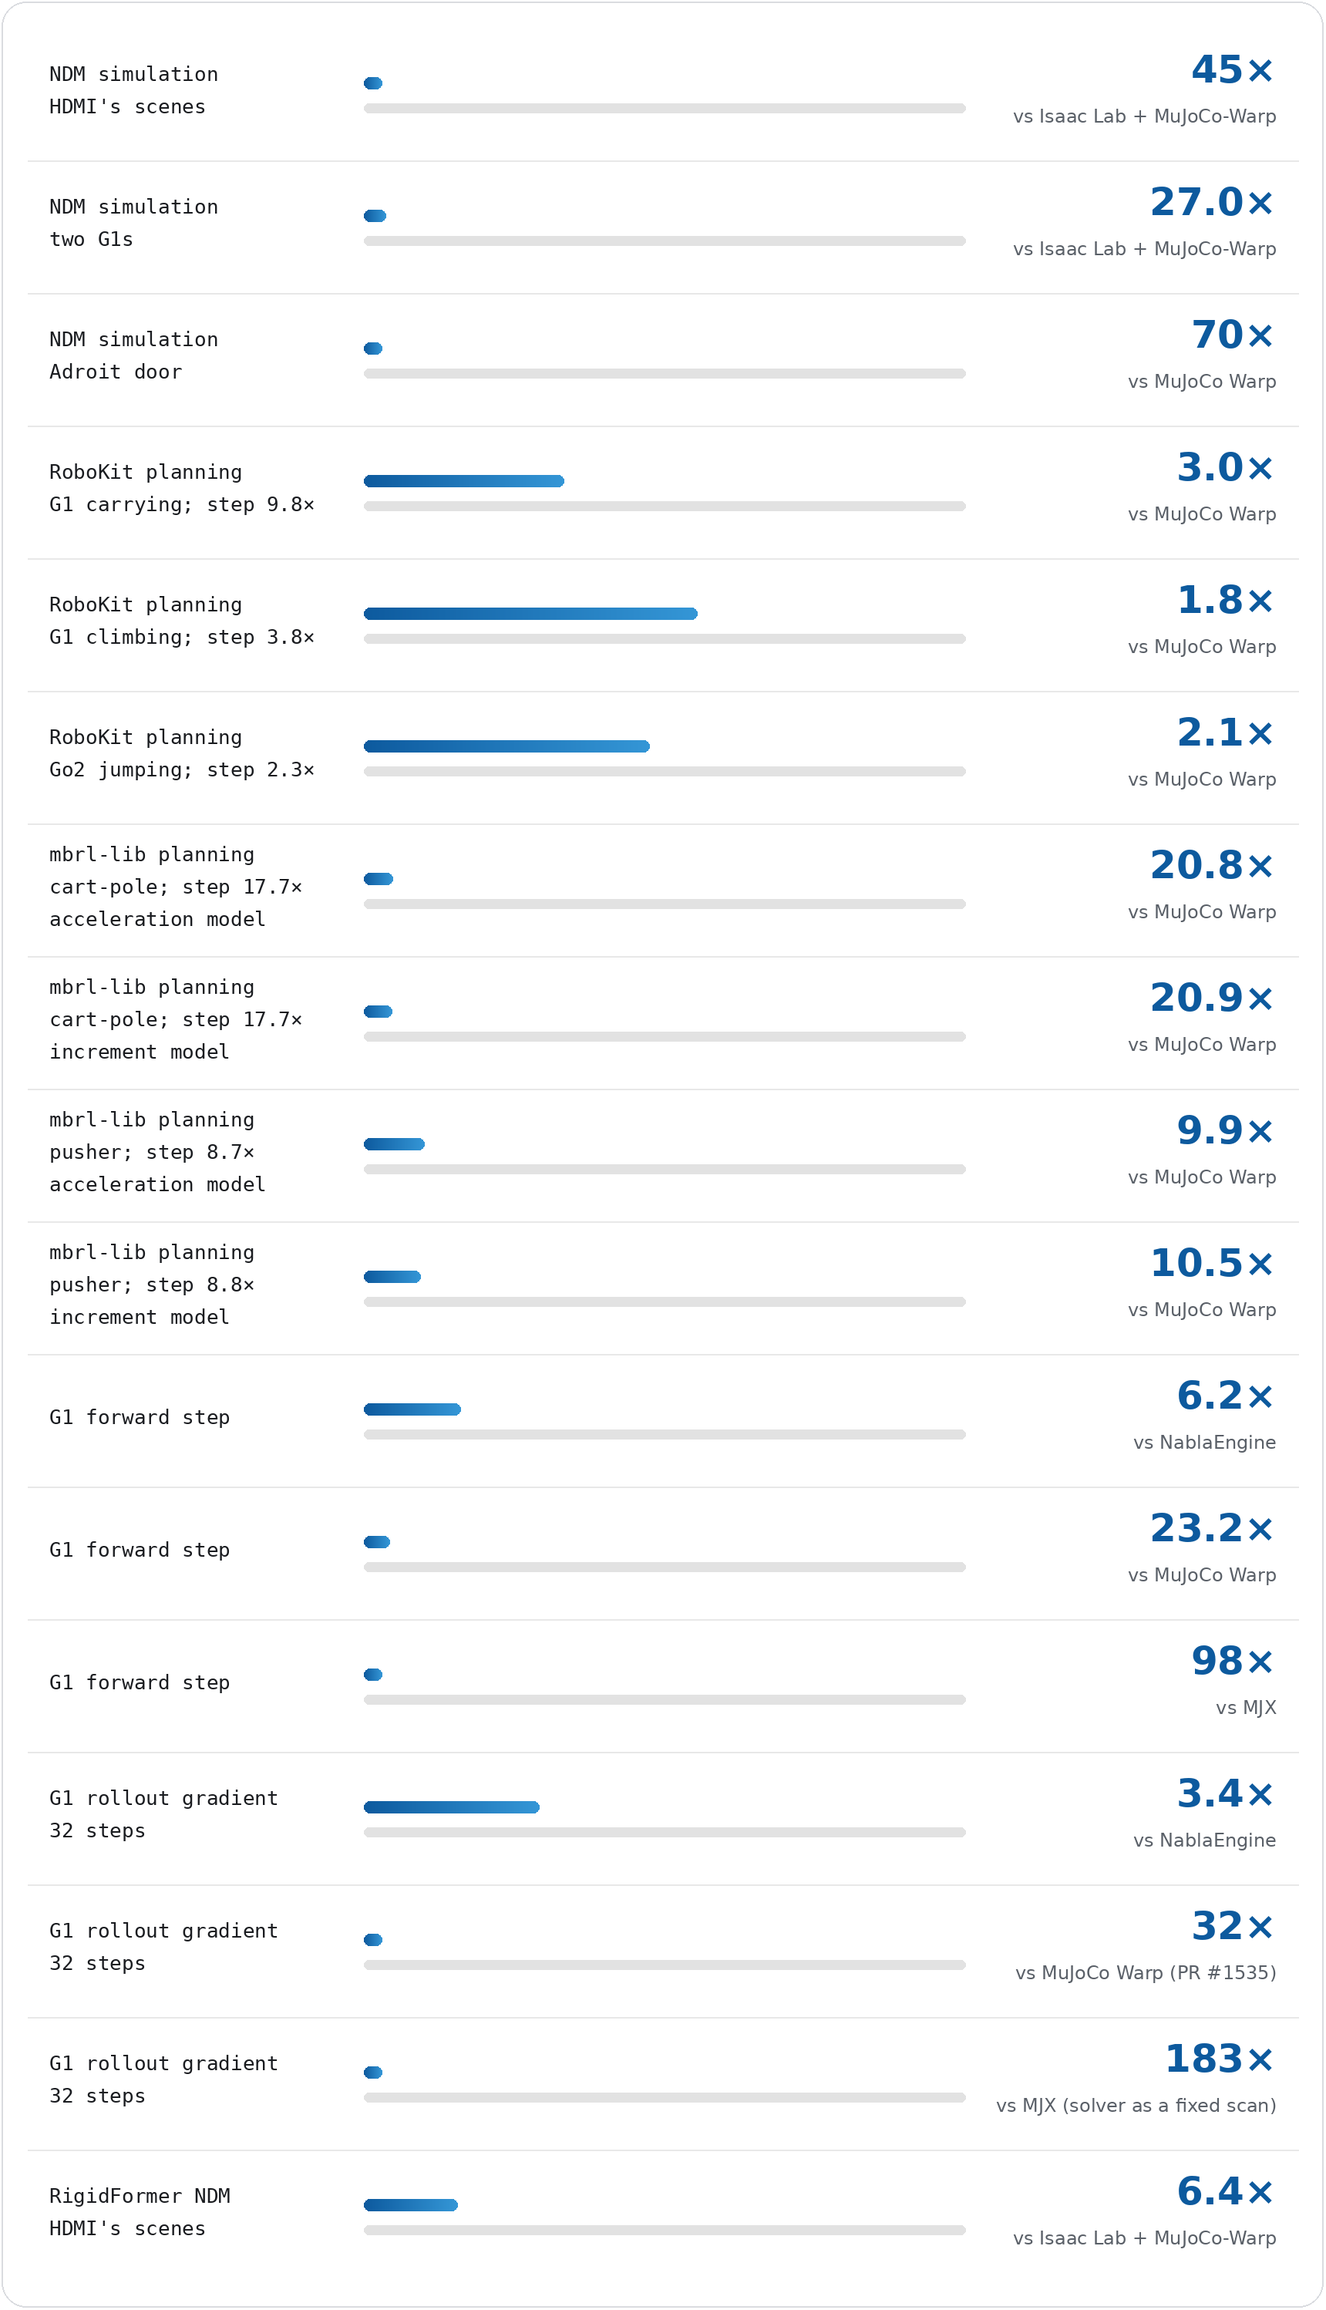
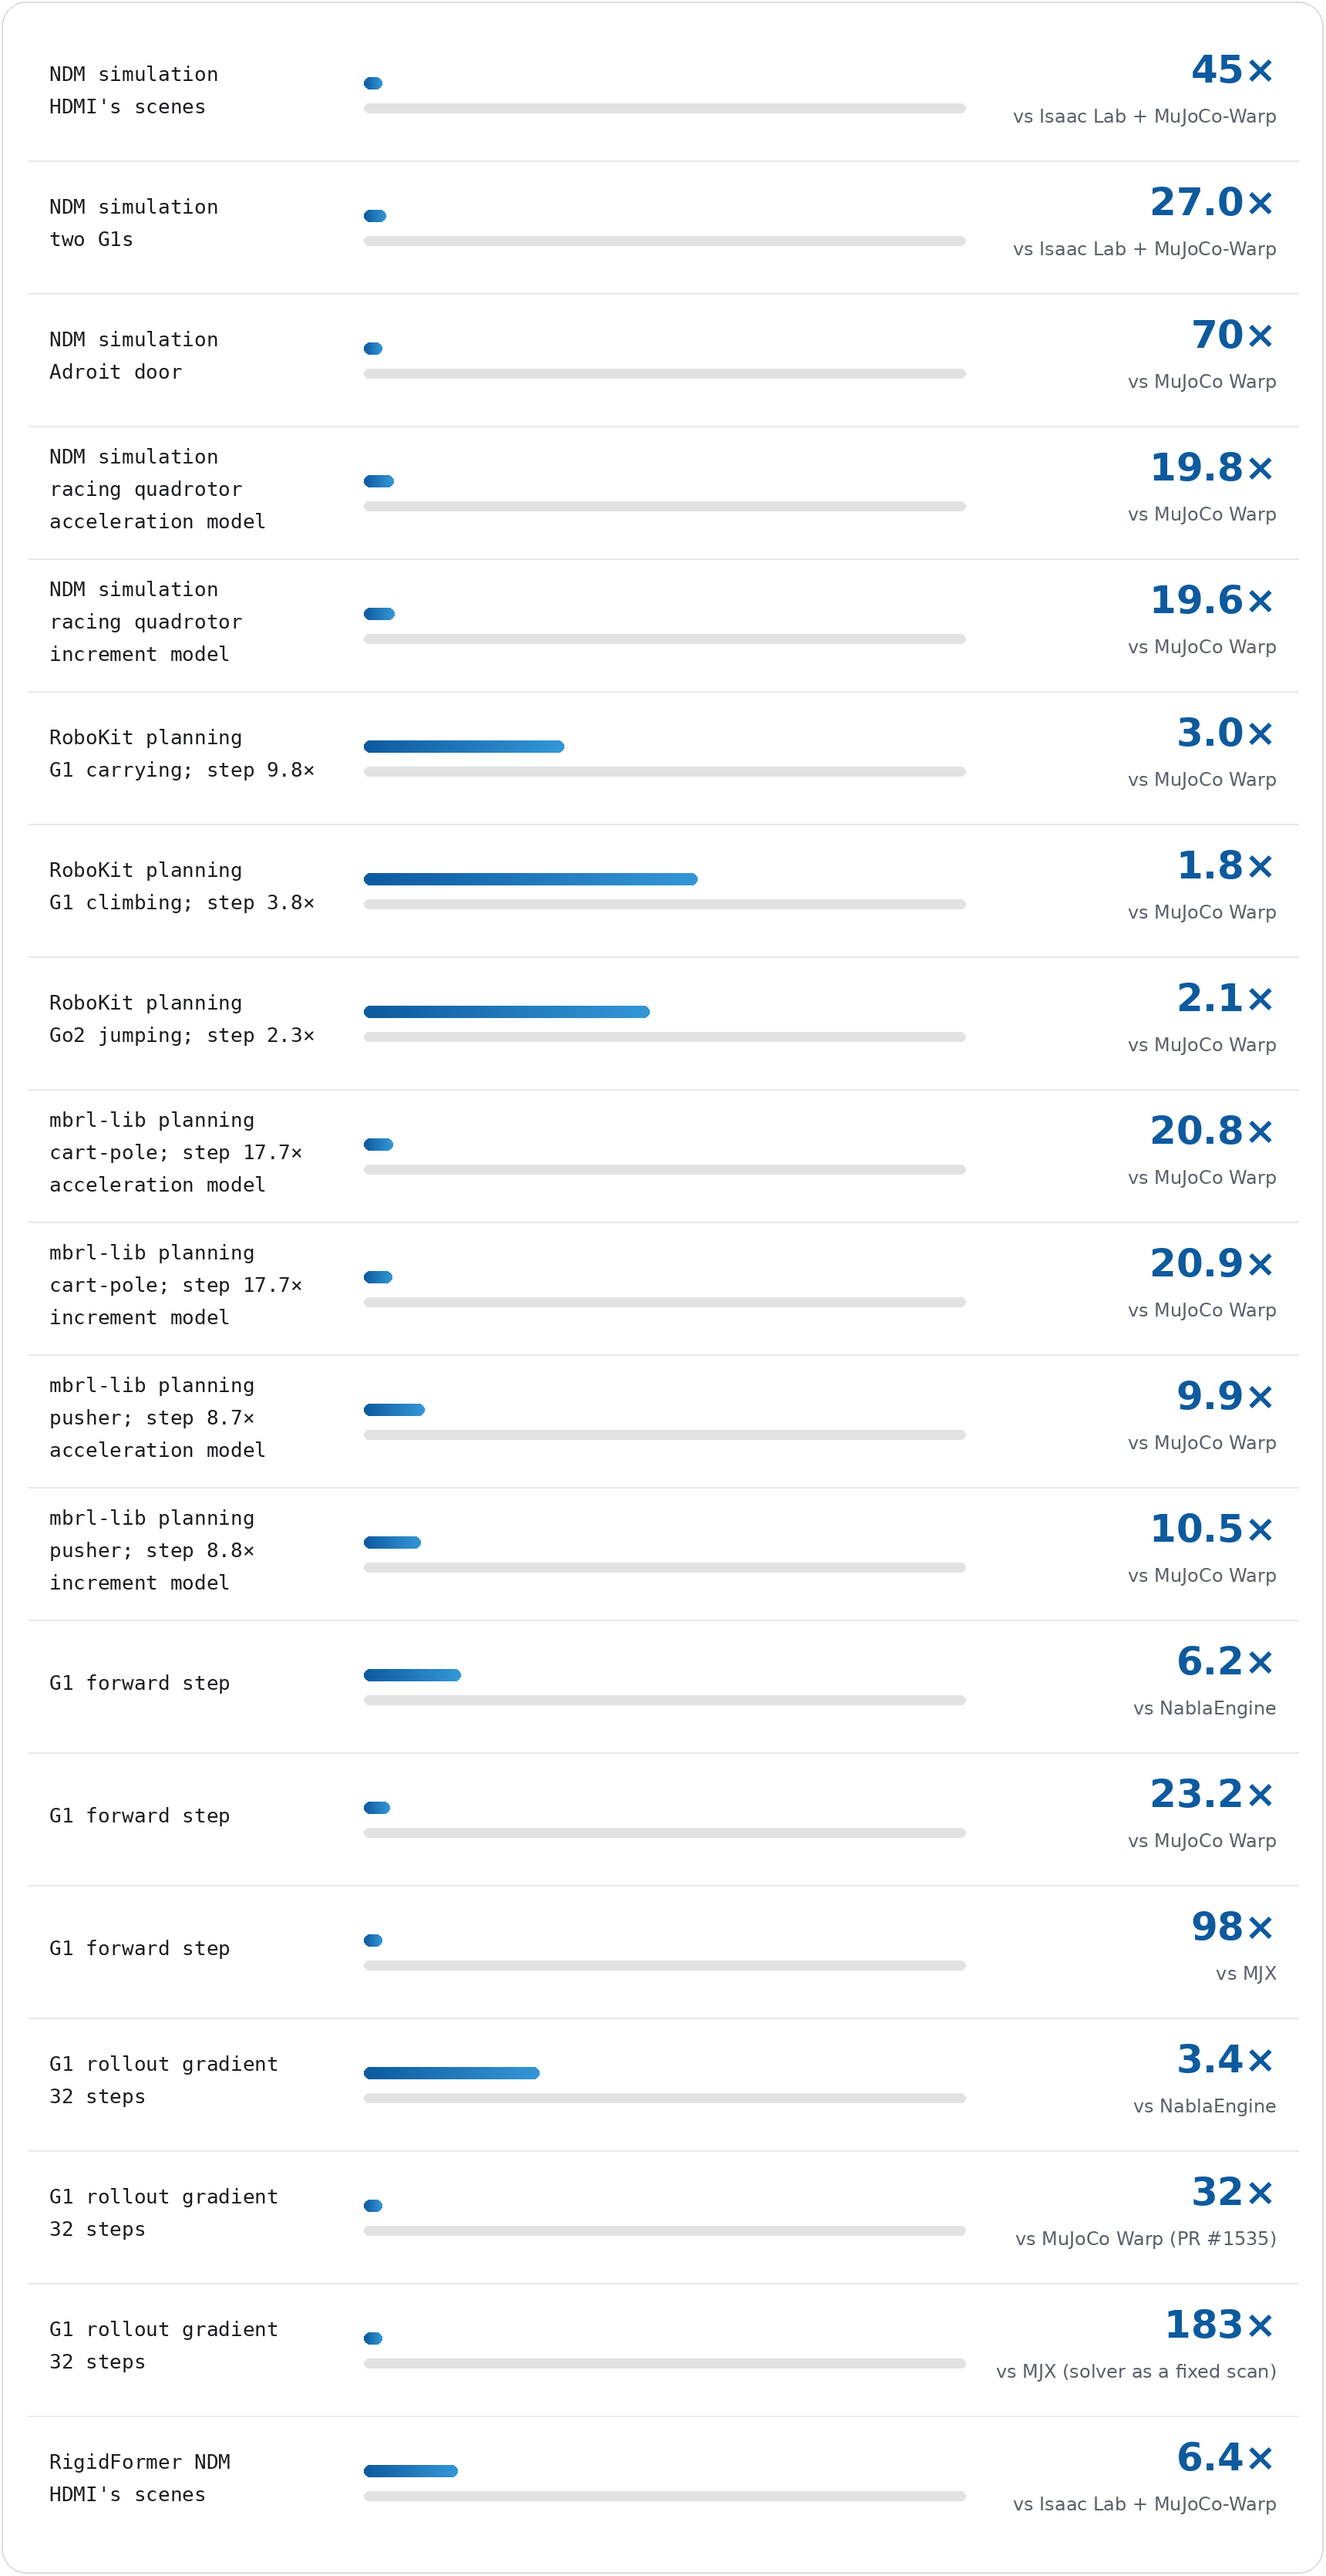
Quadrotor: the world model as the simulator, in the speed chart
- At 4,096 worlds on one A100 40GB SXM4 the fused step in fp32 (TF32 products) runs SuperTrack's acceleration model at 64.6 M
  world-steps/s, 19.8x MuJoCo Warp's 3.27 M, and SuperMimic's increment model at 63.9 M, 19.6x 3.26 M (seeds 0-2 of the
  ellipse, 3 x 256 MLPs); 29.1x / 30.6x at 1,024 worlds, 13.0x / 13.4x at 16,384 and 6.8x at 65,536, where a layer's fp32
  activations outgrow the GPU's 40 MB L2 cache. The network is 85-96 % of the step; the open-loop errors are the model's.
- Speed chart: the rows "NDM simulation, racing quadrotor, acceleration model, 19.8x" and "increment model, 19.6x", vs MuJoCo
  Warp, at the chart's 4,096 worlds (tools/make_speedup_chart.py; the earlier rows as before); the rows table.
- Leaderboard row (throughput, not engineered); the quadrotor section's bullet; benchmarks/quadrotor_racing_tracking/
  results_a100.md: throughput at 1,024-65,536 worlds, where the fused step's time goes, the open-loop errors and bf16's.

diff --git a/tools/make_speedup_chart.py b/tools/make_speedup_chart.py
@@ -11,6 +11,8 @@ from PIL import Image, ImageDraw, ImageFont
 FONT_DIR = "/usr/share/fonts/truetype/dejavu/"
 # (label, second line, speedup, baseline): 4,096 parallel worlds in every row (benchmarks/ndm_speed/results.md, benchmarks/g1_boxing/results.md)
 # but the Adroit door's, at 16,384 worlds, SuperTrack's model as a bf16 copy against MuJoCo Warp (benchmarks/adroit_door/results_a100.md),
+# the racing quadrotor's: the fused step in fp32 on the acceleration and on the increment model against MuJoCo Warp
+# (benchmarks/quadrotor_racing_tracking/results_a100.md),
 # RoboKit's, whose bars are its examples' whole planning time at the planner's own worlds, the median over five planner
 # seeds, with the simulation step's speedup in the second line (benchmarks/robokit_ndm/results.md), and mbrl-lib's, whose bars
 # are the planner's time per executed step on the acceleration and on the increment model (timed in one session), the median
@@ -20,6 +22,8 @@ ROWS = [
     ("NDM simulation", "HDMI's scenes", 45.3, "vs Isaac Lab + MuJoCo-Warp"),
     ("NDM simulation", "two G1s", 27.0, "vs Isaac Lab + MuJoCo-Warp"),
     ("NDM simulation", "Adroit door", 69.7, "vs MuJoCo Warp"),
+    ("NDM simulation", "racing quadrotor\nacceleration model", 19.8, "vs MuJoCo Warp"),
+    ("NDM simulation", "racing quadrotor\nincrement model", 19.6, "vs MuJoCo Warp"),
     ("RoboKit planning", "G1 carrying; step 9.8×", 3.0, "vs MuJoCo Warp"),
     ("RoboKit planning", "G1 climbing; step 3.8×", 1.8, "vs MuJoCo Warp"),
     ("RoboKit planning", "Go2 jumping; step 2.3×", 2.1, "vs MuJoCo Warp"),

diff --git a/README.md b/README.md
@@ -64,6 +64,7 @@ MuJoCo model.
 |---|---|---|
 | NDM simulation: HDMI's scenes ([details](benchmarks/ndm_speed/results.md)), two G1s ([details](benchmarks/g1_boxing/results.md#speed)); the RigidFormer on HDMI's scenes | time per step at 4,096 worlds (two G1s: 4,096 pairs), the MLP world model's bf16 copy and the RigidFormer with fused Triton blocks; HDMI's scenes: the median of three tasks | HDMI's scenes: one H100; two G1s: one A100 80GB |
 | NDM simulation: the Adroit door ([details](benchmarks/adroit_door/results_a100.md#the-world-model-as-the-simulator)) | world-steps per second at 16,384 worlds: SuperTrack's acceleration model as a bf16 copy, 27.62 M against MuJoCo Warp's 0.396 M (69.7x); SuperMimic's increment model 27.14 M against 0.422 M (64.3x); 1,629x / 1,600x the contributed native MuJoCo collector on eight CPU cores (16,962 world-steps/s). The bf16 step is 64 % / 66 % matrix products, the rest compiled elementwise kernels | one A100 40GB SXM4 |
+| NDM simulation: the racing quadrotor ([details](benchmarks/quadrotor_racing_tracking/results_a100.md#the-world-model-as-the-simulator)) | world-steps per second at 4,096 worlds, the fused step in fp32 (TF32 products): SuperTrack's acceleration model 64.6 M against MuJoCo Warp's 3.27 M (19.8x); SuperMimic's increment model 63.9 M against 3.26 M (19.6x); 29.1x / 30.6x at 1,024 worlds, 6.8x at 65,536. The network is 89 % of the step at 4,096 worlds | one A100 40GB SXM4 |
 | the G1's forward step and the gradient of a 32-step rollout ([details](benchmarks/ndm_speed/results.md)) | SuperTrack's MLP world model against NablaEngine, MuJoCo Warp with the adjoint of its pull request #1535 and MJX, each in its faster setting | one A100 40GB |
 | RoboKit planning ([details](benchmarks/robokit_ndm/results.md)) | the example's whole planning time at the planner's own worlds, the median over five planner seeds; the simulation step's speedup beside the task | one A100 40GB SXM4 |
 | mbrl-lib planning ([details](benchmarks/mbrl_lib/results.md)) | the planner's time per executed step on the acceleration and on the increment model, timed in one session, the median over three planner seeds; the step's speedup at 4,096 worlds beside the task | one A100 80GB SXM4 |
@@ -105,6 +106,7 @@ the position within 20 mm. Commands: [Recommended settings](#-recommended-settin
 | **[NDM in RoboKit's planner](#ndms-in-robokits-planner)**, G1 box carrying / climbing, Go2 jumping, one A100 40GB | ⏱ planning time, not engineered | SuperTrack's acceleration model, MLP, as a bf16 copy | planning **3.0x / 1.8x / 2.1x** faster than on MuJoCo Warp (9 → 3, 7 → 4, 65 → 31 s) ([results](benchmarks/robokit_ndm/results.md)) |
 | **[NDM in mbrl-lib's planner](#ndms-in-mbrl-libs-planner)**, PETS' cart-pole / pusher, one A100 80GB | ⏱ planning time, not engineered | SuperTrack's acceleration model and SuperMimic's increment model, MLPs as bf16 copies, level | planning **20.8x / 9.9x** and **20.9x / 10.5x** faster than on MuJoCo Warp (0.314 → 0.0151 / 0.0150 s, 0.300 → 0.0303 / 0.0286 s a step), 103.8x / 31.3x and 104.3x / 33.2x faster than mbrl-lib's CPU pool; 30 of 30 / 28 of 30 plans at the bar for each ([results](benchmarks/mbrl_lib/results.md)) |
 | **[NDM as the simulator](#adroit-door-tracking)**, the Adroit door, 16,384 worlds on an A100 40GB SXM4 | 🚀 fastest | SuperTrack's acceleration model, MLP, as a bf16 copy | **27.62 M world-steps/s**, 69.7x MuJoCo Warp's 0.396 M and 1,629x the contributed collector on eight CPU cores; SuperMimic's increment model 27.14 M, 64.3x ([results](benchmarks/adroit_door/results_a100.md#the-world-model-as-the-simulator)) |
+| **[NDM as the simulator](#quadrotor-trajectory-tracking)**, the racing quadrotor, 4,096 worlds on an A100 40GB SXM4 | ⏱ throughput, not engineered | SuperTrack's acceleration model and SuperMimic's increment model, MLPs, the fused step in fp32 | **64.6 M** and **63.9 M world-steps/s**, 19.8x and 19.6x MuJoCo Warp's 3.27 M; 29.1x / 30.6x at 1,024 worlds, 6.8x at 65,536 ([results](benchmarks/quadrotor_racing_tracking/results_a100.md#the-world-model-as-the-simulator)) |
 | **[NDM as the simulator](#ndms-as-simulators-hdmis-scenes)**, HDMI's move_suitcase, 4096 worlds on an H100 | ⏱ throughput, not engineered | the MLP world model (acceleration parameterization) as a bf16 copy | **16.28 M env-steps/s**, 45.9x the physics engine's 0.35 M; RigidFormer 2.30 M, 6.5x ([results](benchmarks/ndm_speed/results.md)) |
 
 [NablaMimic](docs/algorithms/nablamimic.md) (∇Mimic) trains through a differentiable simulator, without a world model.
@@ -825,6 +827,10 @@ time to the target on all three flights (SuperMimic's: 6.55 / 4.96 / 5.08 mm, 5.
   track a professional's at up to 19.3 m/s and 9 g), are tracked with the same configurations; the policy of the 18
   autonomous flights flies them without a termination, zero-shot, at 5.9 / 5.5 / 22.3 mm (SuperTrack) and 12.4 / 13.2 /
   38.1 mm (SuperMimic) ([the piloted flights](benchmarks/quadrotor_racing_tracking/results.md#the-piloted-flights)).
+- **The world model as the simulator:** at 4,096 worlds on one A100 40GB SXM4, the fused step in fp32 runs SuperTrack's
+  acceleration model at 64.6 M world-steps/s, 19.8x MuJoCo Warp, and SuperMimic's increment model at 63.9 M, 19.6x; 29.1x /
+  30.6x at 1,024 worlds, and 6.8x at 65,536, where a layer's fp32 activations outgrow the GPU's 40 MB L2 cache
+  ([results](benchmarks/quadrotor_racing_tracking/results_a100.md#the-world-model-as-the-simulator)).
 
 | | ellipse | lemniscate | race track |
 |---|---|---|---|

diff --git a/benchmarks/quadrotor_racing_tracking/results_a100.md b/benchmarks/quadrotor_racing_tracking/results_a100.md
@@ -1,0 +1,55 @@
+# Quadrotor trajectory tracking: results on A100 40GB
+
+The task and the contributed study on an H200: [README](../../README.md#quadrotor-trajectory-tracking), [results](results.md).
+
+## The world model as the simulator
+
+The world models of the most accurate configurations (`quadrotor-supertrack-accurate`, an acceleration MLP of 3 × 256;
+`quadrotor-supermimic-accurate`, an increment MLP of 3 × 256), trained on the ellipse (flight-01a) with seeds 0-2 for 6,000
+iterations on an A100 40GB SXM4, step the drone in place of its physics. A world-step is one 10 ms control step, the command
+held; MuJoCo Warp runs its four physics steps of a control step as one CUDA graph. One A100 40GB SXM4 with nothing else on
+it; every figure the median of five runs of 500 steps after 50 and 2 s of stepping; mean ± SD over the three seeds.
+
+The fused step: the world model's inference copy (`ndm_gym/worldmodels/quad_infer.py`) with its network in fp32 (TF32
+products, as training runs it) and compiled (`torch.compile`, max-autotune-no-cudagraphs); the input's features and
+normalization, and the output's de-normalization and integration, as two Triton kernels around it (`quad_fused.py`); the
+state kept as four tensors (position, rotation matrix, velocities) in two buffers, each step one CUDA graph from one buffer
+into the other. The copy is compared with the model on the GPU before it runs and refused on a mismatch.
+
+```bash
+# one checkpoint at one world count (1,024 / 4,096 / 16,384 / 65,536), on one GPU with nothing else running
+python -m ndm_gym.wmbench.speed_quadrotor --ckpt logs/quad/ellipse_st_s0/last.pt --num_envs 1024 --warm_seconds 2 --profile \
+  --copy fp32 bf16 --fused --compile none max-autotune-no-cudagraphs --out speed.json
+```
+
+Million world-steps per second, SuperTrack's model / SuperMimic's; MuJoCo Warp measured beside each:
+
+| worlds | MuJoCo Warp | the step as the study runs it (fp32) | the fused step (fp32) | fused / MuJoCo Warp |
+|---:|---:|---:|---:|---:|
+| 1,024 | 0.936 / 0.938 | 2.88 / 2.95 | 27.3 ± 0.2 / 28.7 ± 0.2 | 29.1 / 30.6 |
+| 4,096 | 3.27 / 3.26 | 9.09 / 9.24 | 64.6 ± 0.7 / 63.9 ± 0.5 | 19.8 / 19.6 |
+| 16,384 | 7.99 / 7.99 | 20.1 / 20.3 | 104 ± 3.6 / 107 ± 0.2 | 13.0 / 13.4 |
+| 65,536 | 11.8 / 11.8 | 28.4 / 28.3 | 80.5 ± 0.1 / 80.4 ± 0.1 | 6.8 / 6.8 |
+
+Where the fused step's time goes, ms per step, each part timed alone as its own CUDA graph (SuperTrack's model; SuperMimic's
+within 0.01 ms):
+
+| part | 1,024 | 4,096 | 16,384 | 65,536 |
+|---|---:|---:|---:|---:|
+| the state into the network's input (features, normalization) | 0.0038 | 0.0038 | 0.0038 | 0.0054 |
+| the network (3 × 256, compiled) | 0.0321 | 0.0566 | 0.144 | 0.780 |
+| the next state (de-normalization, integration) | 0.0038 | 0.0054 | 0.0099 | 0.0294 |
+| the whole step | 0.0376 | 0.0637 | 0.158 | 0.814 |
+
+- **The network is 85 to 96 % of the step.** From 16,384 to 65,536 worlds its time grows 5.4 times for four times the
+  worlds: a layer's fp32 activations, 64 MB at 65,536 worlds, outgrow the A100's 40 MB L2 cache, so each layer's output goes
+  to memory and back. A network fused into one kernel per tile of worlds, its activations kept on the chip, would remove
+  those round trips; it is not built.
+- **The study's step** converts the state to and from quaternions around the network: 0.20 ms of its 0.36 ms at 1,024 worlds
+  (SuperTrack's model). The fused step keeps the rotation matrix.
+- **The same errors:** the fused step's open-loop position error against the simulator after 1 / 8 / 32 / 64 / 100 steps is
+  the model's: 0.015 / 0.21 / 1.35 / 3.93 / 8.25 mm (SuperTrack's model) and 1.84 / 4.11 / 6.18 / 10.8 / 20.4 mm
+  (SuperMimic's), from the simulator's states under the policy with exploration noise 0.1, 4,096 worlds.
+- **bf16:** with the network in bf16 the step runs 33.4 / 81.5 / 147 / 169 M world-steps/s (SuperTrack's model), but the
+  position error after 100 steps grows to 14.3 ± 2.9 mm (SuperTrack's model, from 8.25) and 23.7 ± 0.5 mm (SuperMimic's,
+  from 20.4); the rows above stay in fp32.

diff --git a/benchmarks/quadrotor_racing_tracking/results.md b/benchmarks/quadrotor_racing_tracking/results.md
@@ -198,6 +198,8 @@ The simulator is one rigid body without contacts, four physics steps per control
 to save, and bf16 does not help a network of this size. The acceleration model integrates the position from the velocity,
 as the simulator does; the increment model predicts it.
 
+On an A100 40GB SXM4, with the step fused: [results_a100.md](results_a100.md#the-world-model-as-the-simulator).
+
 ## The model's estimates
 
 The drone's inertia and drag are estimates ([the drone](../../docs/tasks/quadrotor.md#the-drone)). SuperTrack's selected
